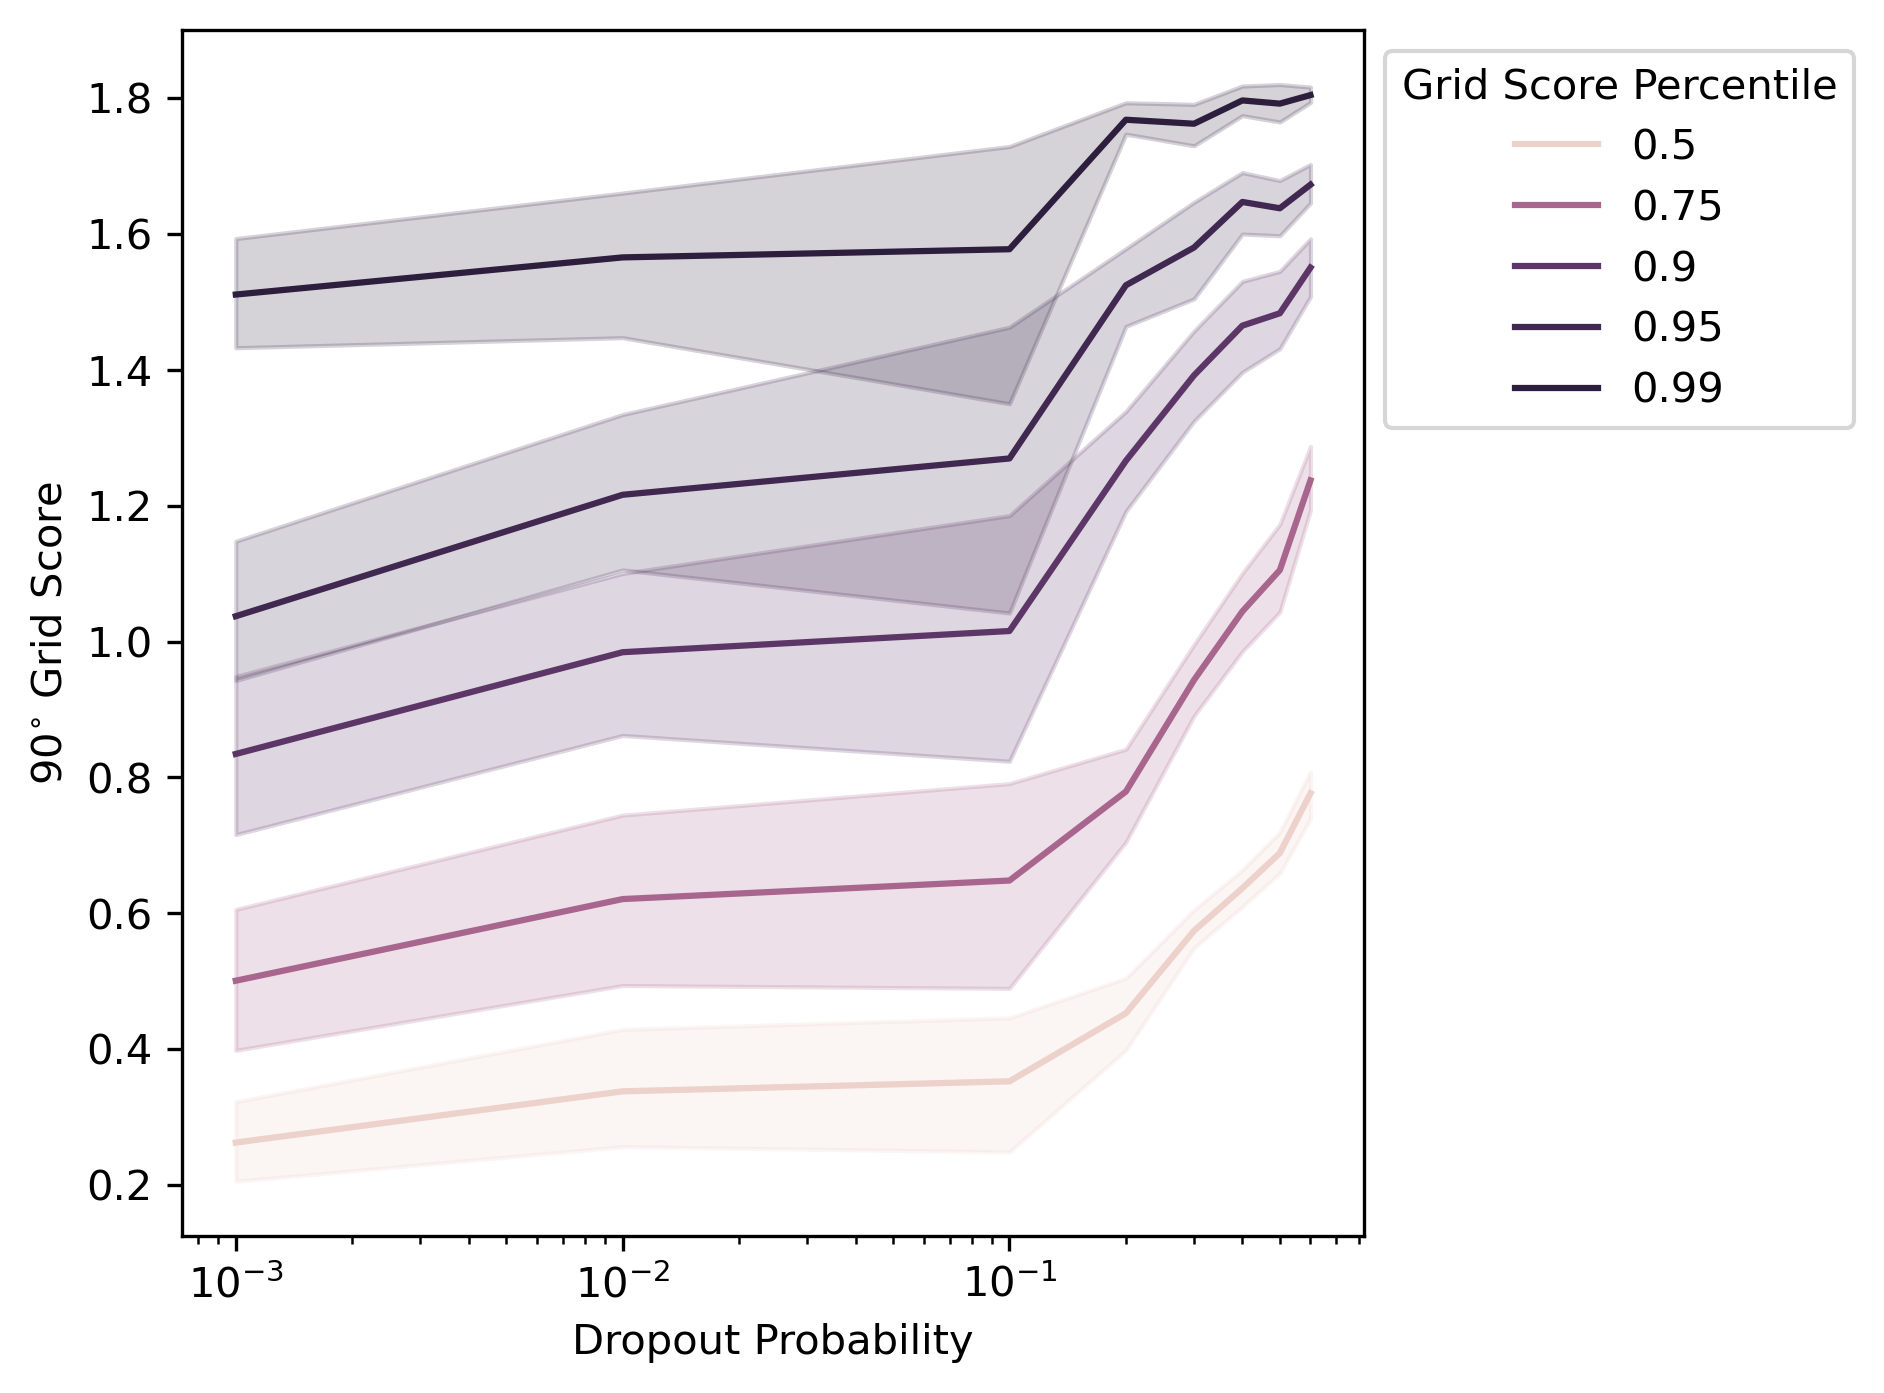
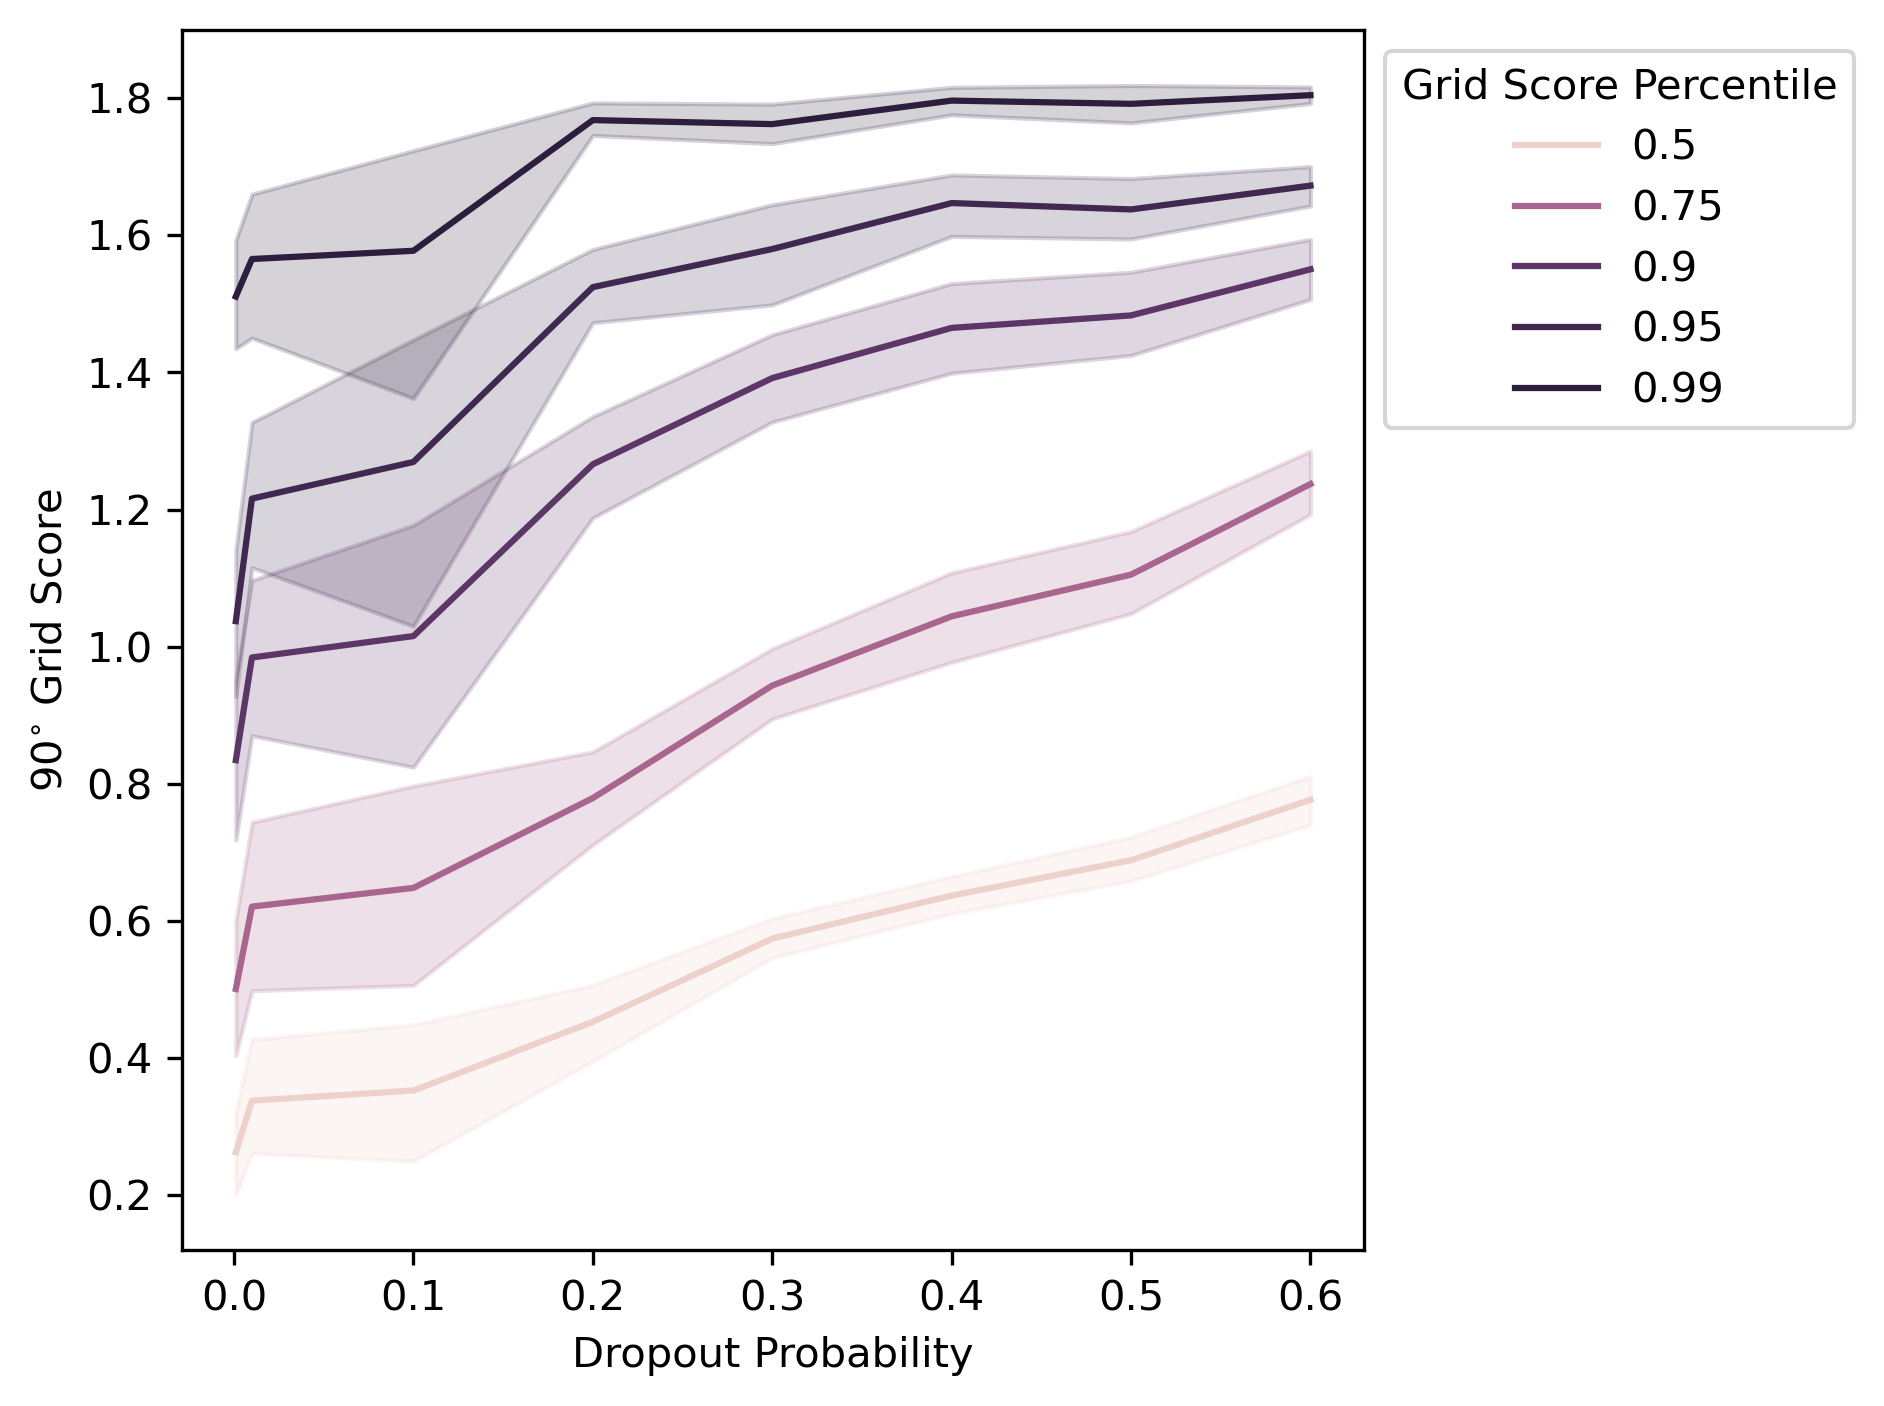
Polish dropout figures

diff --git a/notebooks/00_dropout/00_dropout.py b/notebooks/00_dropout/00_dropout.py
@@ -60,11 +60,28 @@ g = sns.lineplot(
 )
 plt.xlabel("Dropout Probability")
 plt.ylabel(r"$90^{\circ}$ Grid Score")
-g.set(xscale="log")
+# g.set(xscale="log")
 g.legend_.set_title("Grid Score Percentile")
 sns.move_legend(g, "upper left", bbox_to_anchor=(1, 1))
 src.plot.save_plot_with_multiple_extensions(
     plot_dir=results_dir, plot_title="score_90_vs_keep_prob_by_grid_score_percentile"
+)
+plt.show()
+
+
+plt.close()
+g = sns.lineplot(
+    data=position_decoding_err_and_grid_scores_melted_df,
+    x="dropout_probability",
+    y="train/pos_decoding_err_in_cm",
+)
+plt.xlabel("Dropout Probability")
+plt.ylabel("Position Decoding Error (cm)")
+g.set(ylim=(0, 110))
+# Add dotted black horizontal line at 15 cm.
+g.axhline(y=15, color="black", linestyle="--")
+src.plot.save_plot_with_multiple_extensions(
+    plot_dir=results_dir, plot_title="pos_decoding_err_vs_keep_prob"
 )
 plt.show()
 

diff --git a/README.md b/README.md
@@ -1,5 +1,7 @@
 # Fiete Lab Sorscher 2022 Reproduction
 
+This 
+
 ## Setup
 
 Create a conda environment with the required packages:
